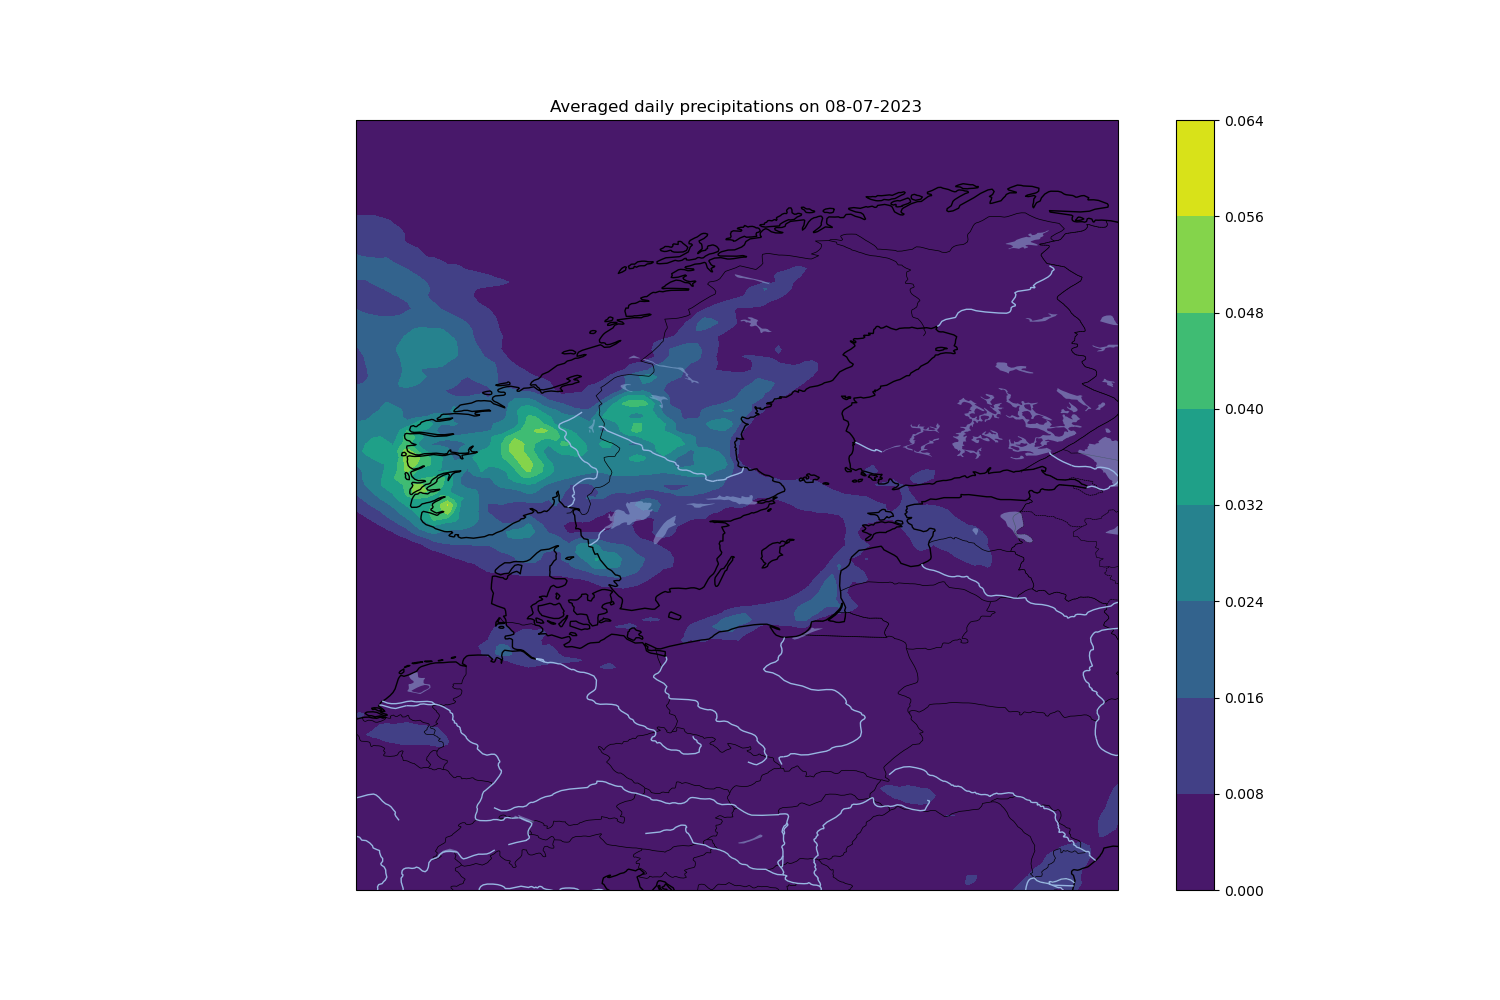
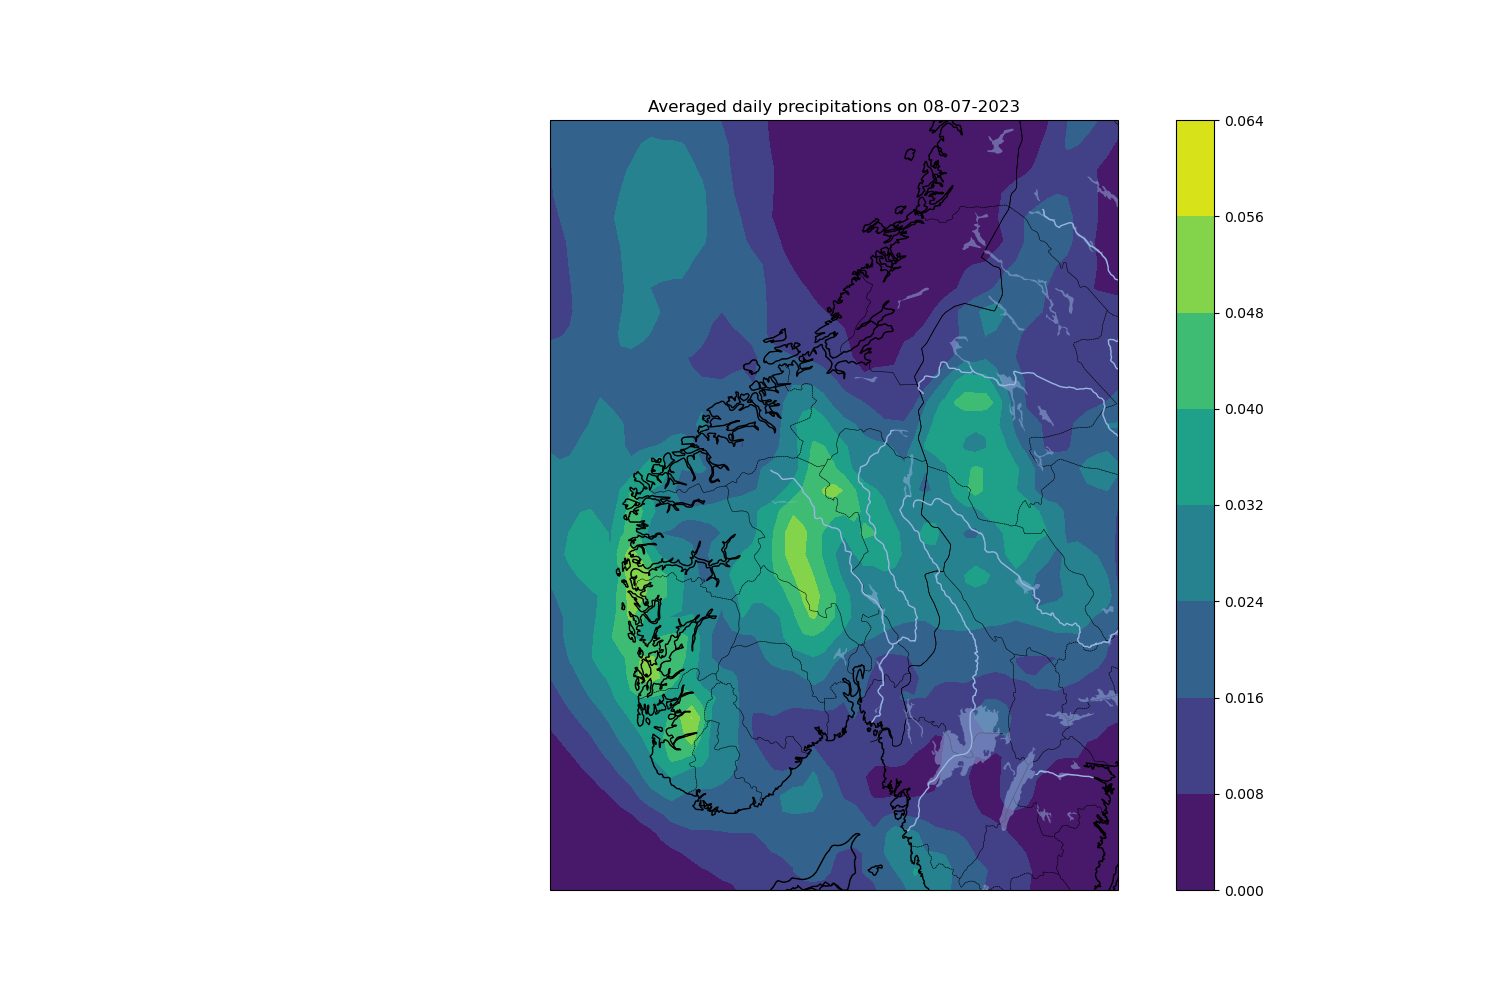
ending hans tp daily maps

diff --git a/hans_storm/map_creation.py b/hans_storm/map_creation.py
@@ -24,22 +24,18 @@ def nbToDate(nb : int) -> str :
 def map_creator(data : Dataset) -> tuple :
 
     projPlane = ccrs.PlateCarree()
+    projMerc = ccrs.Mercator()
 
-    latS = max(45, data['tp24'].GRIB_latitudeOfLastGridPointInDegrees)
-    latN = min(75, data['tp24'].GRIB_latitudeOfFirstGridPointInDegrees)
-    lonW = max(3.1, data['tp24'].GRIB_longitudeOfFirstGridPointInDegrees)
-    lonE = min(31.3, data['tp24'].GRIB_longitudeOfLastGridPointInDegrees)
+    latS = max(57, data['tp24'].GRIB_latitudeOfLastGridPointInDegrees)
+    latN = min(66, data['tp24'].GRIB_latitudeOfFirstGridPointInDegrees)
+    lonW = max(3, data['tp24'].GRIB_longitudeOfFirstGridPointInDegrees)
+    lonE = min(17, data['tp24'].GRIB_longitudeOfLastGridPointInDegrees)
+
     cLat = (latS + latN) / 2
     cLon = (lonW + lonE) / 2
-
-    # cities_mask = cfeature.NaturalEarthFeature(
-    #     'cultural',
-    #     'Populated_places',
-    #     scale = '50m',
-    # )
  
     fig = plt.figure(figsize=(15,10))
-    ax = plt.subplot(1, 1, 1, projection=projPlane)
+    ax = plt.subplot(1, 1, 1, projection=projMerc)
     ax.set_extent([lonW, lonE, latS, latN], crs=projPlane)
     ax.coastlines()
     ax.add_feature(cfeature.STATES, linewidth=0.3, linestyle='--', edgecolor='black')
@@ -47,7 +43,6 @@ def map_creator(data : Dataset) -> tuple :
     ax.add_feature(cfeature.LAKES, alpha=0.5)
     ax.add_feature(cfeature.LAND)
     ax.add_feature(cfeature.RIVERS)
-    # ax.add_feature(cities_mask)
 
     return fig, ax
 
@@ -113,3 +108,7 @@ for number in range(217,223):
     # mapping(pathToFile="/nird/projects/NS9873K/etdu/processed/cf-forsikring/era5/continuous-format/daily/tp24/tp24_0.25x0.25_2023.nc", day=number)
     mapping_1d(pathToFile="unseen-storm-forecasts/hans_storm/tp24_0.25x0.25_2023.nc", day=number)
     mapping_avg_3d(pathToFile="unseen-storm-forecasts/hans_storm/tp24_0.25x0.25_2023.nc", day=number)
+
+### Short testing
+
+""" mapping_avg_3d(pathToFile="unseen-storm-forecasts/hans_storm/tp24_0.25x0.25_2023.nc", day=219) """
